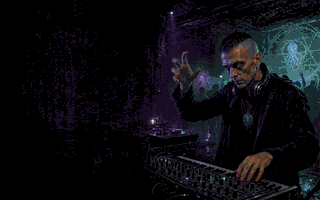
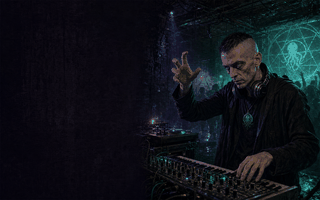
Fix CPAL indices in dossier artwork

diff --git a/CHANGELOG.md b/CHANGELOG.md
@@ -2,6 +2,8 @@
 
 ## Unreleased
 
+- Reconverted the Harrie Lenssen and Martin Jakubko dossier illustrations to
+  avoid reserved CPAL indices after their sprite mappings became CPAL-enabled.
 - Added 81 Ufopaedia illustrations covering awards, dossiers, staff reports,
   and tutorials.
 - Added 54 Ufopaedia illustrations covering careers, creatures, dossiers, and
